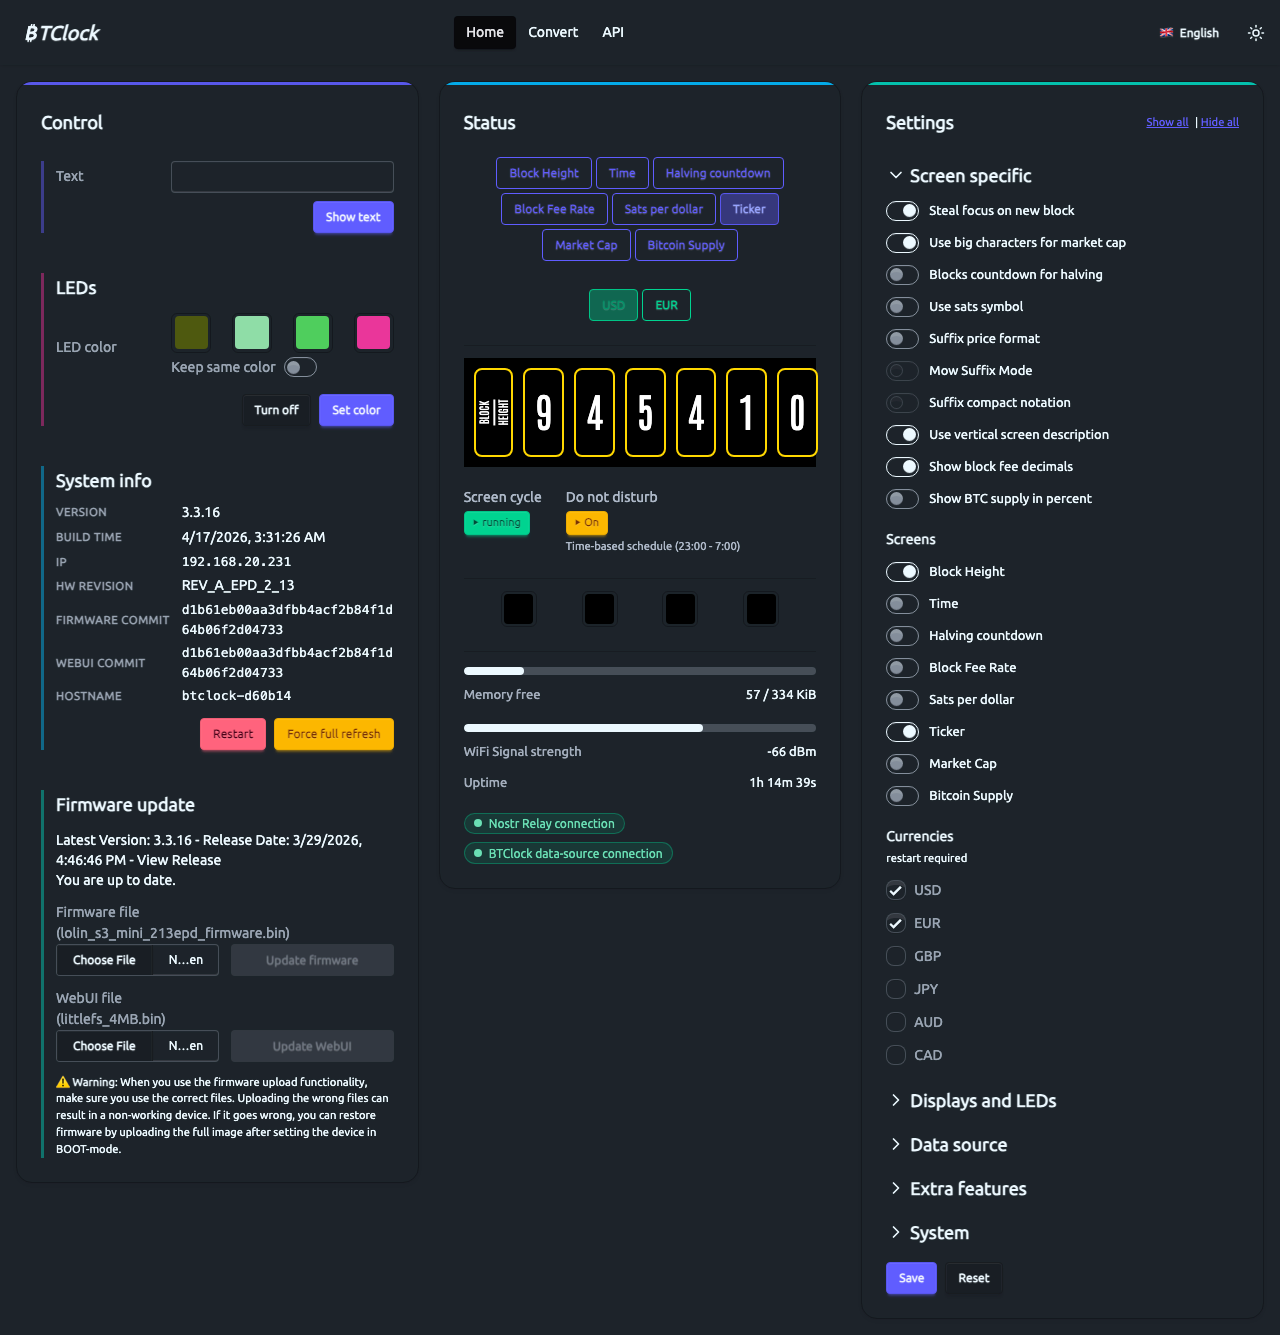
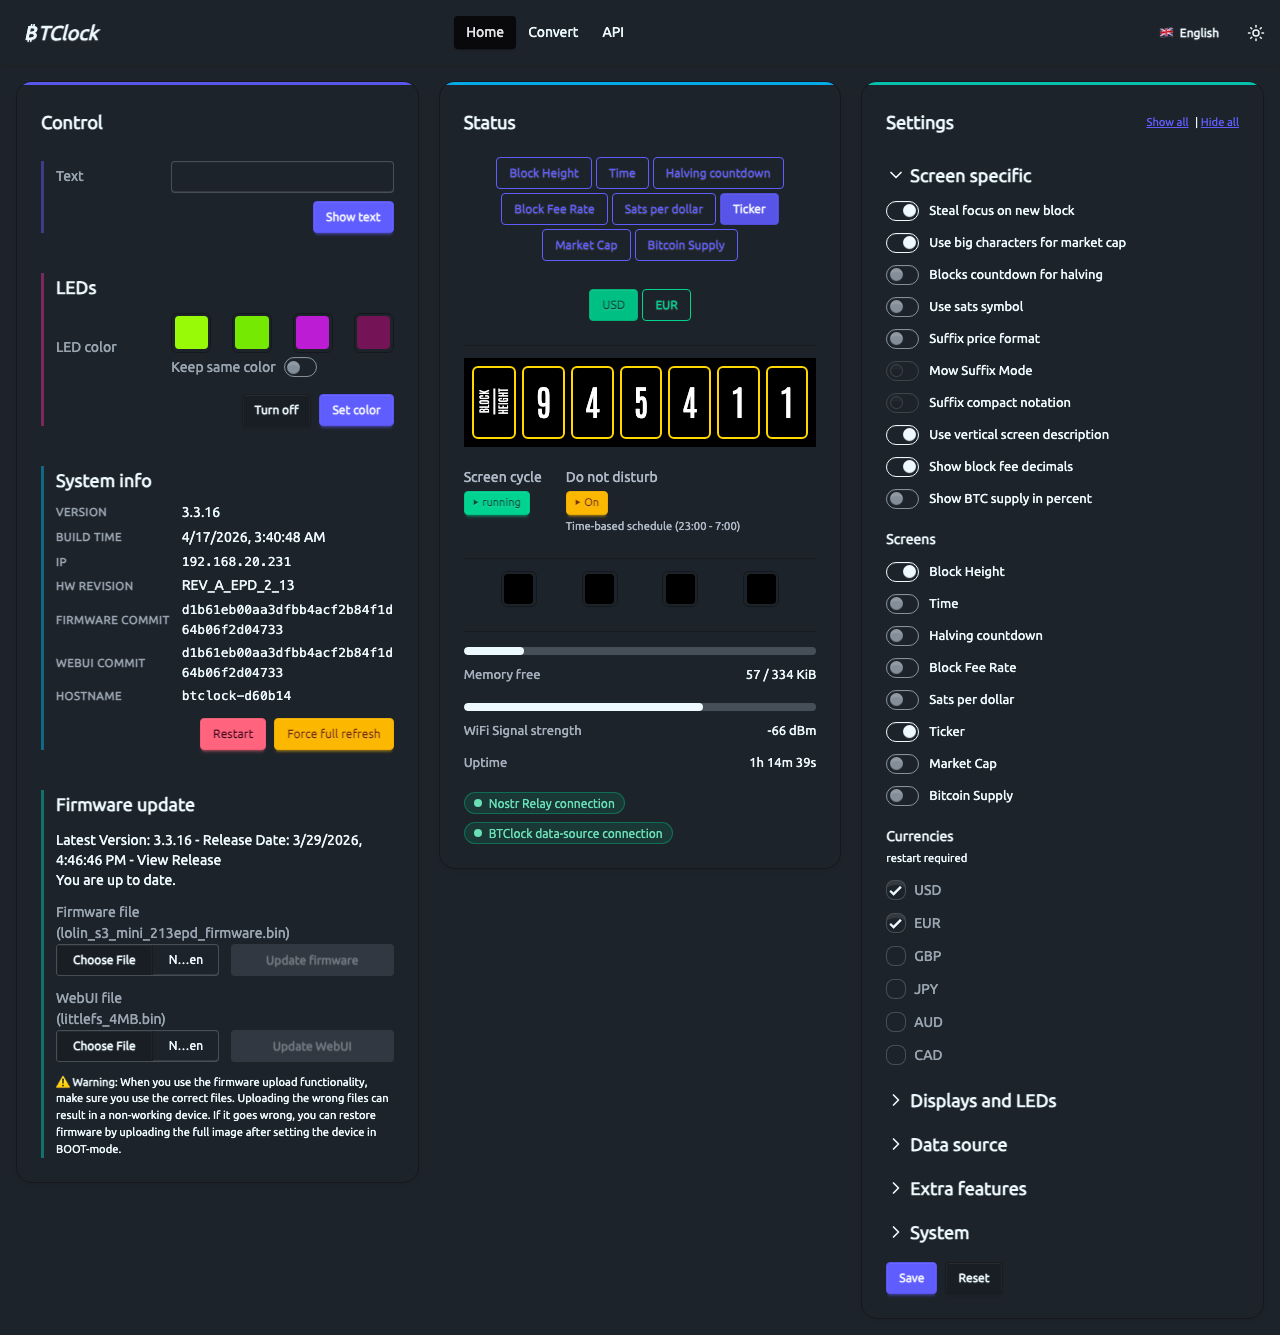
fix(clock): stop BTClock digits from overflowing the Status column
The `.btclock` digit cells were sized with `width: calc(12vw + 12vh)`,
which at a 1280px viewport computes to ~313px per cell × 7 cells ≈
2200px — far wider than the ~400px Status column in the 4-4-4 grid.
Because each cell had an explicit `width` plus fixed padding/font, they
could not shrink enough to fit, so the flex row overflowed the card and
the last cell's right border was visually clipped against the column
edge.

Switch the cells to `flex: 1 1 0; min-width: 0` so they share whatever
width is available, keep `aspect-ratio: 1/1.5` so the cells stay
square-ish, and scope the whole wrapper with `container-type: inline-size`
so the font-size (`clamp(1rem, 10cqi, 2.5rem)`) scales with the Status
column instead of the viewport. Add `overflow: hidden` on `.btclock` as a
belt-and-braces guard so a very narrow column can never spill pixels.

Refresh doc/screenshot-{light,dark}.webp to reflect the fix. Full
validation chain still green: lint, svelte-check (0/0), 71/71 unit,
17/17 integration.

Made-with: Cursor

diff --git a/src/app.css b/src/app.css
@@ -205,27 +205,42 @@ input[type='number'] {
  * BTClock display — ported verbatim from src/lib/style/app.scss
  * ----------------------------------------------------------- */
 
+.btclock-wrapper {
+	/* Scope a container so the clock's digit sizing tracks the Status
+	   column width rather than the full viewport — otherwise the digits
+	   keep their viewport-based size and the last cell gets clipped when
+	   the column is narrower than `7 * (12vw + 12vh)`. */
+	container-type: inline-size;
+}
+
 .btclock-wrapper .btclock {
 	background: #000;
 	display: flex;
-	font-size: calc(2vw + 2vh);
+	/* `cqi` = 1% of the container's inline size, so font-size now scales
+	   with the Status column instead of the viewport. */
+	font-size: clamp(1rem, 10cqi, 2.5rem);
 	font-family: 'Antonio', sans-serif;
 	font-weight: 400;
-	padding: 10px;
-	gap: 10px;
+	padding: 8px;
+	gap: 6px;
+	/* Defensive: never overflow the card even on very narrow columns. */
+	overflow: hidden;
 }
 
 .btclock-wrapper .btclock .digit,
 .btclock-wrapper .btclock .splitText,
 .btclock-wrapper .btclock .mediumText {
 	border: 2px solid gold;
-	border-radius: 8px;
+	border-radius: 6px;
 	display: flex;
 	align-items: center;
 	justify-content: center;
 	text-align: center;
-	padding: 10px 10px 15px 10px;
-	width: calc(12vw + 12vh);
+	padding: 6px 4px 10px;
+	/* Share the available row width evenly and let each cell shrink
+	   below its intrinsic content width so nothing overflows. */
+	flex: 1 1 0;
+	min-width: 0;
 	aspect-ratio: 1 / 1.5;
 }
 
@@ -305,16 +320,10 @@ input[type='number'] {
 }
 
 @media (max-width: 576px) {
-	.btclock-wrapper .btclock {
-		font-size: calc(2vw + 2vh);
-	}
 	.btclock-wrapper .btclock .digit,
 	.btclock-wrapper .btclock .splitText,
 	.btclock-wrapper .btclock .mediumText {
-		padding: 5px;
-	}
-	.btclock-wrapper .btclock .splitText {
-		font-size: calc(1.2vw + 1.2vh);
+		padding: 4px 3px 8px;
 	}
 	.btclock-wrapper .btclock .splitText .top-text {
 		margin-bottom: -10px;
